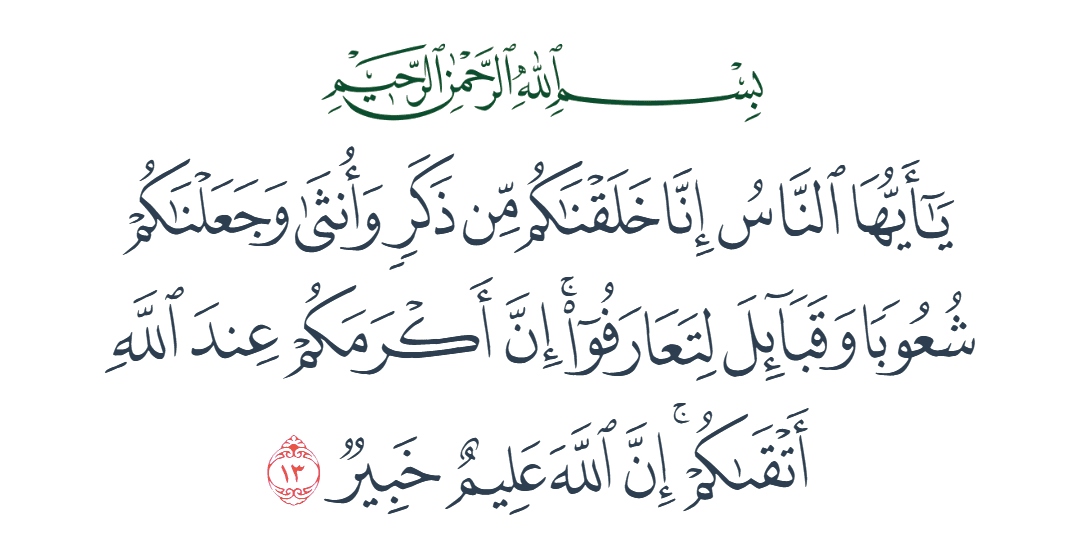
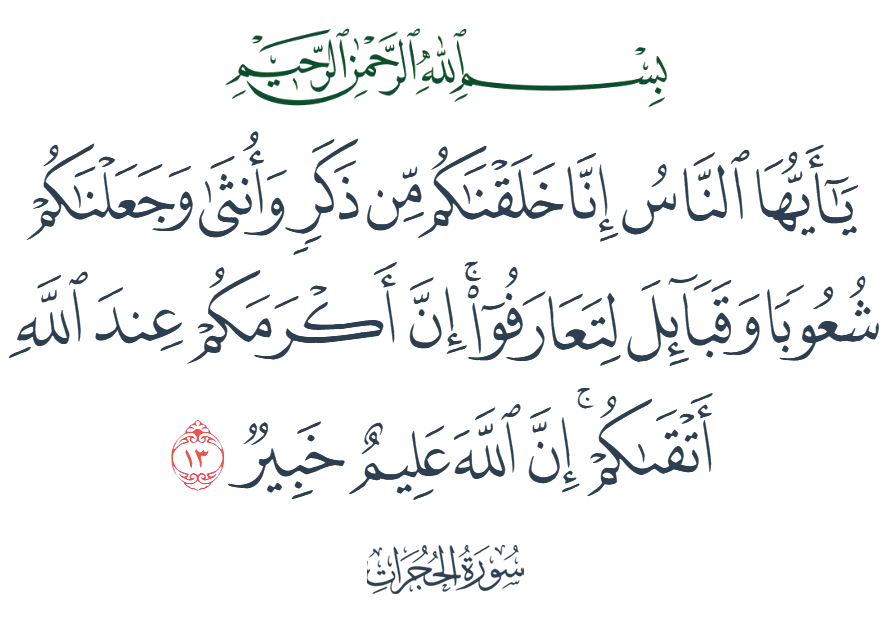
Add files via upload

Changed region(s): [[0.0, 0.0307, 1.0, 0.953], [0.6978, 0.0615, 0.7281, 0.0922]]

diff --git a/index.html b/index.html
@@ -55,7 +55,7 @@
         .logo-intro {
             display: block;
             width: 80vw;
-            max-width: 450px;
+            max-width: 400px;
             height: auto;
             filter: drop-shadow(0 4px 20px rgba(74, 59, 50, 0.15));
         }
@@ -63,7 +63,7 @@
         .verse-img {
             display: block;
             width: 80vw;
-            max-width: 500px;
+            max-width: 450px;
             height: auto;
             filter: drop-shadow(0 2px 12px rgba(74, 59, 50, 0.1));
         }
